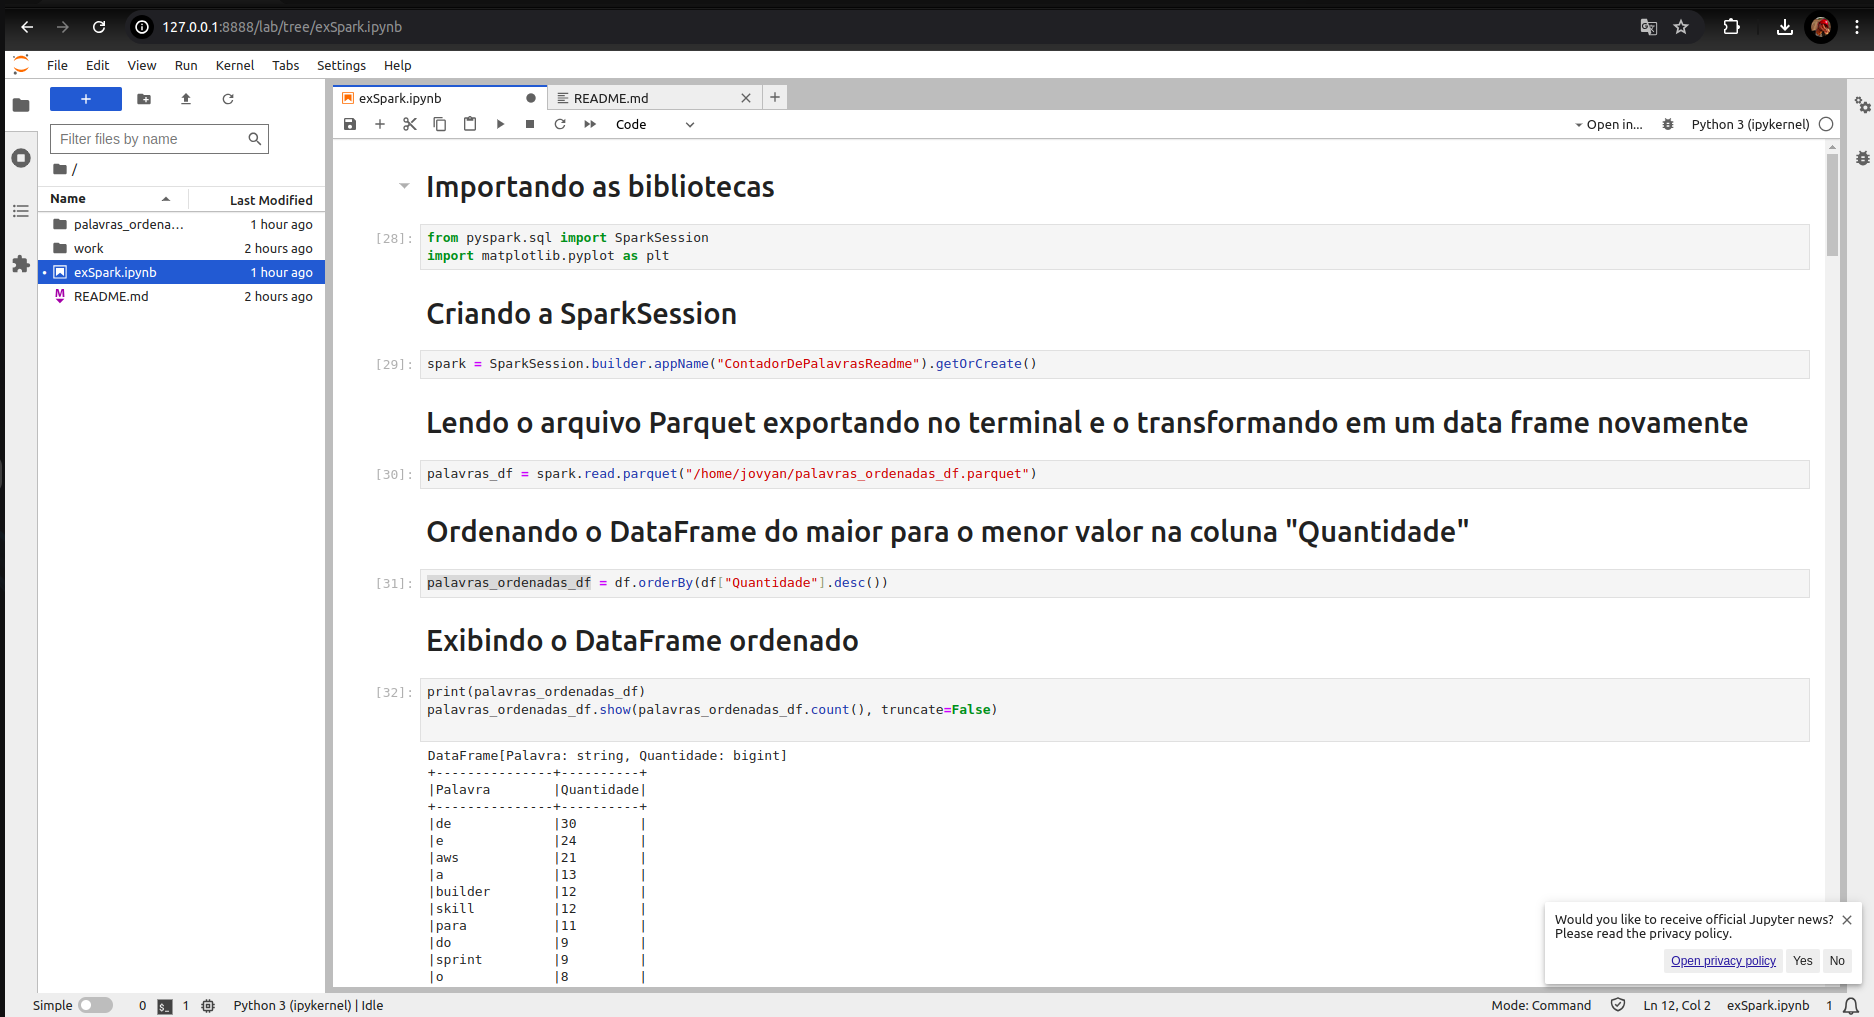
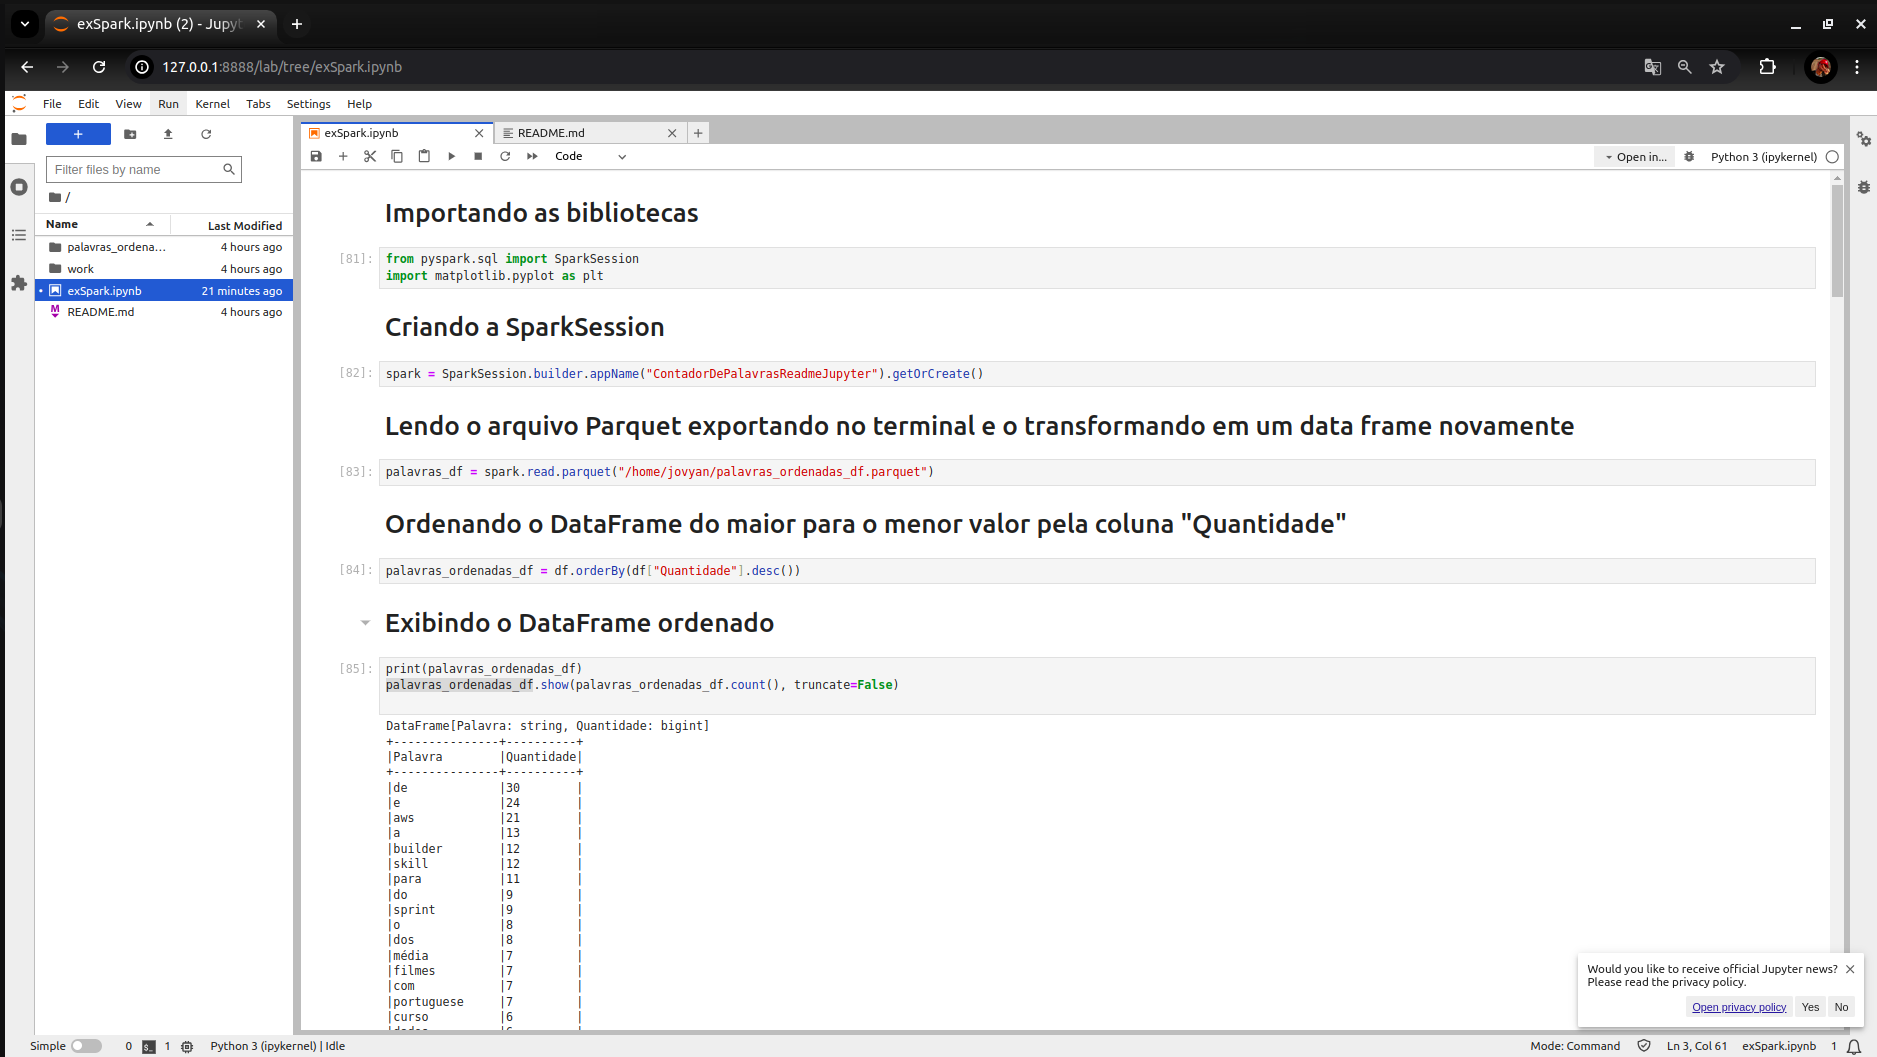
feat: recording evidence

Changed region(s): [[0.0, 0.0, 1.0, 1.0], [0.9594, 0.2134, 0.9904, 0.2743]]

diff --git a/Sprint 7/README.md b/Sprint 7/README.md
@@ -1,7 +1,11 @@
 # Aprendizagens 
+
+- Considerei essa sprint uma das que mais somou meus aprendizados no estágio até o momento, visto que aprendi sobre a ferramenta Spark e como ela é útil para criação e manipulação de dataFrames
+
 # 📝 Exercício
 
 ## 1⃣ Apache Spark - Contador de Palavras
+### Exercicio proposto consiste no uso da imagem all-spark-notebook para contagem das palavras do meu readme.
 - Etapa 1: Baixar a imagem jupyter/all-spark-notebook.
 - Comando:
     ```
@@ -87,14 +91,144 @@
     ![](Evidencias/print_exSpark_trabalhando_com_os_dados_parket_no_Jupyter_part_1.png)
     ![](Evidencias/print_exSpark_trabalhando_com_os_dados_parket_no_Jupyter_part_2.png)
     ![](Evidencias/print_exSpark_trabalhando_com_os_dados_parket_no_Jupyter_part_3.png)
-  
+    ![](Evidencias/print_exSpark_trabalhando_com_os_dados_parket_no_Jupyter_part_4.png)
+- Copiei arquivo esSpark.ipynb de dentro do container spark_jupyter, com o comando:
+  ```
+  docker cp spark_jupyter:/home/jovyan/exSpark.ipynb ./trainee-repo-template/'Sprint 7'/Exercicios/all-spark-notebook/exSpark.ipynb
+  ```
+  ![](Evidencias/print_copiando_arquivo_jupyter_do_container_para_diretorio_da_sprint.png)
+
 - Explicação do código no jupyter bem como os resutados em:  [Exercicios/all-spark-notebook/exSpark.ipynb](Exercicios/all-spark-notebook/exSpark.ipynb)
 
 ## 2⃣ Lab AWS Glue
 
-- Etapa 1: Configurar Athena
+  ### O execício proposto consiste na construção de um ETL (Extract, Transform and Load) de forma simplificada utilizando os serviços AWS Glue.
+  #### Etapas:
 
-- Etapa 2: Criar um banco de dados
+ 1. Preparando os dados de origem :
+   - Armazenando o arquivo nomes.csv que foi enviado como recurso no bucket s3. Esse arquivo contém os registros de quantidade de cada nome por ano e sexo. 
+  ![](Evidencias/print_exGlue_arquivo_nomes_armazenado_no_bucket_s3.png)
+2. Configurando conta para utilizar aws glue:
+   - Criando usúario IAM com permissão _s3FullAcess_ 
+    ![](Evidencias/print_exGlue_usuario_IAM_criando_com_as_politicas.png)
+3. Criando a IAM Role para os Jobs do AWS Glue
+   ![](Evidencias/print_exGlue_criando_role_glue_part_1.png.png)
+   ![](Evidencias/print_exGlue_criando_role_glue_parte_2.png)
+4. Criando data lake aws-glue
+   ![](Evidencias/print_exGlue_data_base_aws-glue_criado.png)
+   ![](Evidencias/print_exGlue_configurando_data_lake_aws-glue_parte_2.png)
+   ![](Evidencias/print_exGlue_configurando_data_lake_aws-glue_parte_1.png)
+5. Criando um job no aws glue:
+   ![](Evidencias/print_exGlue_criando_um_job_no_glue_parte_1.png)
+   ![](Evidencias/print_exGlue_criando_um_job_no_glue_parte_2.png)
+   ![](Evidencias/print_exGlue_criando_um_job_no_glue_parte_3.png)
+   ![](Evidencias/print_exGlue_adicionando_job_parametros_de_input_e_target.png)
+- Após o job criado e configurado criei o seguinte código em spark para atender as seguintes demandas do execício:
+  ![](Evidencias/print_exGlue_listagem_de_passo_a_passo_a_ser_feita.png)
+- código com os devidos comentários onde resolvi cada etapa solicitada:
+  ```python
+    import sys
+    from awsglue.transforms import *
+    from awsglue.utils import getResolvedOptions
+    from pyspark.context import SparkContext
+    from awsglue.context import GlueContext
+    from awsglue.job import Job
+    from pyspark.sql.functions import col, upper, count, max
 
-# 🏆 Certificados
+    ## @params: [JOB_NAME]
+    args = getResolvedOptions(sys.argv, ['JOB_NAME', 'S3_INPUT_PATH', 'S3_TARGET_PATH'])
+    sc = SparkContext()
+    glueContext = GlueContext(sc)
+    spark = glueContext.spark_session
+    job = Job(glueContext)
+    job.init(args['JOB_NAME'], args)
+
+    source_file = args['S3_INPUT_PATH']
+    target_path = args['S3_TARGET_PATH'] + '/frequencia_registro_nomes_eua'
+
+    # Fazendo a leitura do arquivo csv nomes que está no meu bucket s3 passado na variavel de parametro S3_INPUT_PATH
+    data_frame_com_arquivo_nomes = spark.read.option("header", True).option("sep", ",").csv(source_file)
+
+    # Imprimo somente o schema  para ver as tipagens de cada coluna
+    data_frame_com_arquivo_nomes.printSchema()
+
+    # Convertendo para maiúculo os nomes que estão na coluna nomes
+    data_frame_com_arquivo_nomes = data_frame_com_arquivo_nomes.withColumn("nome", upper(col("nome")))
+
+    # Imprindo a contagem de linhas que o arquivo possui
+    print(f"Total de linhas: {data_frame_com_arquivo_nomes.count()}")
+
+    # Imprimindo a contagem de nomes, agrupando os dados pelas colunas ano e sexo, e ordenando pela coluna ano de forma decrescente para pegar os anos mais recentes
+    contagem_dos_nomes = data_frame_com_arquivo_nomes.groupBy("ano", "sexo").count().orderBy(col("ano").desc())
+    contagem_dos_nomes.show()
+
+    # Ordenando o data frame principal de forma decrescente pela coluna ano 
+    data_frame_com_arquivo_nomes = data_frame_com_arquivo_nomes.orderBy(col("ano").desc())
+
+    # Imprindo o nome feminino com mais registros e o ano que ocorreu
+    nome_feminino_com_mais_registros = data_frame_com_arquivo_nomes.filter(col("sexo") == "F").groupBy("nome", "ano").agg(max("total").alias("max_total")).orderBy(col("max_total").desc()).first()
+    print(f"Nome feminino com mais registros: {nome_feminino_com_mais_registros['nome']} em {nome_feminino_com_mais_registros['ano']}")
+
+    # Imprindo o nome masculino com mais registros e o ano que ocorreu
+    nome_masculino_com_mais_registros = data_frame_com_arquivo_nomes.filter(col("sexo") == "M").groupBy("nome", "ano").agg(max("total").alias("max_total")).orderBy(col("max_total").desc()).first()
+    print(f"Nome masculino com mais registros: {nome_masculino_com_mais_registros['nome']} em {nome_masculino_com_mais_registros['ano']}")
+
+    # Imprimindo o agrupamento do total de registros masculinos e femininos para cada ano
+    total_registros_por_ano = data_frame_com_arquivo_nomes.groupBy("ano").agg(count("nome").alias("total_registros"))
+    total_registros_por_ano.show()
+
+    # Extraindo apenas as 10 primeras linhas ordenadas pelo ano de forma crescente
+    filtragem_primeiras_10_linhas = data_frame_com_arquivo_nomes.orderBy(col("ano").asc()).limit(10)
+    filtragem_primeiras_10_linhas.show()
+
+    # Exportando em formato json os conteúdos do dataframe com o particionamentona ordem sexo e ano para o diretorio target no meu bucket s3 
+    data_frame_com_arquivo_nomes.write.partitionBy("sexo", "ano").json(target_path)
+
+    job.commit()
+  ```
+  - ## Uma das partes que mais tive dificuldade foi a de imprimir o nome feminino e masculino com mais registros. Pois tive fazer um junção das função `filter` `groupBy` `agg` `max` `alias` `desc` e `first`.
+    - `.filter`: Filtrar os dados para incluir apenas os registros do sexo que queria;
+    - `.groupBy`: Agrupar os meus dados por nome e ano;
+    - `agg(max("total").alias("max_total"))`: Calcular o máximo de registros para cada nome e ano, adicionando uma nova coluna ao data frame;
+    - `orderBy`: Para consegui ordenar os dados pela coluna max_total que criei.
+    - `first`: Por fim, pegar apenas a primeira linha que deve ser a que contém o nome que contéma mais registro.
+
+- Evidências de execução:
+  ![](Evidencias/print_exGlue_evidencia_job_execucao.png)
+  - CloudWatch continuous logs:
+  ![](Evidencias/print_exGlue_evidencia_job_execucao_clould_logs_parte_1.png)
+  ![](Evidencias/print_exGlue_evidencia_job_execucao_clould_logs_parte_2.png)
+  - Percebi que não tinha ordenado a coluna para o ano mais recente então refatorei o código e rodei novamente o job (os códigos mostrados acima já estão corrigidos)
+  ![](Evidencias/print_exGlue_evidencia_job_Execucao_correcao_coluna_ordenada_pelo_ano_mais_recente.png)
+  - Diretórios criados no bucket
+  ![](Evidencias/print_exGlue_evidencia_job_execucao_diretorio_criado.png)
+  ![](Evidencias/print_exGlue_evidencia_job_execucao_diretorio_criados_por_sexo_bucket_s3)
+  ![](Evidencias/print_exGlue_evidencia_job_execucao_Diretorios_criados_por_ano_feminino.png)
+  ![](Evidencias/print_exGlue_evidencia_job_execucao_Diretorios_criados_por_ano_masculino.png)
+  - Arquivos json gerados
+  ![](Evidencias/print_exGlue_evidencia_job_execucao_arquivo_json.png)
+  ![](Evidencias/print_exGlue_evidencia_job_execucao_arquivo_json_2.png)
+  
+6. Criando novo crawler:
+   ![](Evidencias/print_exGlue_evidencia_crawler_configuracao_parte_1.png)
+   ![](Evidencias/print_exGlue_evidencia_crawler_configuracao_parte_2.png)
+   ![](Evidencias/print_exGlue_evidencia_crawler_configuracao_parte_3.png)
+   ![](Evidencias/print_exGlue_evidencia_crawler_criado.png)
+- Executando o crawler:
+  ![](Evidencias/print_exGlue_evidencia_clawlers_executado_com_sucesso.png)
+
+7. Testando o banco de dados aws-glue criado com o crawler
+   - Contagem do total de linhas:
+    ![](Evidencias/print_exGlue_evidencia_athena_realizando_consulta_no_banco_aws-glue_parte_1.png)
+    - Contagem de nomes agrupados por sexo e por ano, exibindo na ordem dos anos mais recentes:
+    ![](Evidencias/print_exGlue_evidencia_athena_realizando_consulta_no_banco_aws-glue_parte_2.png)
+    - Nome feminino e ano com mais registrose:
+    ![](Evidencias/print_exGlue_evidencia_athena_realizando_consulta_no_banco_aws-glue_parte_3.png)
+    - Nome masculino e ano com mais registros:
+    ![](Evidencias/print_exGlue_evidencia_athena_realizando_consulta_no_banco_aws-glue_parte_4.png)
+    - Total de registros (masculino e feminino) para cada ano ordenado pelo ano de forma crescente:
+    ![](Evidencias/print_exGlue_evidencia_athena_realizando_consulta_no_banco_aws-glue_parte_5.png)
+
+    ## Exercício finalizdo com muita aprendizagem adiquirida no processo de criação de ETL.
+
 
